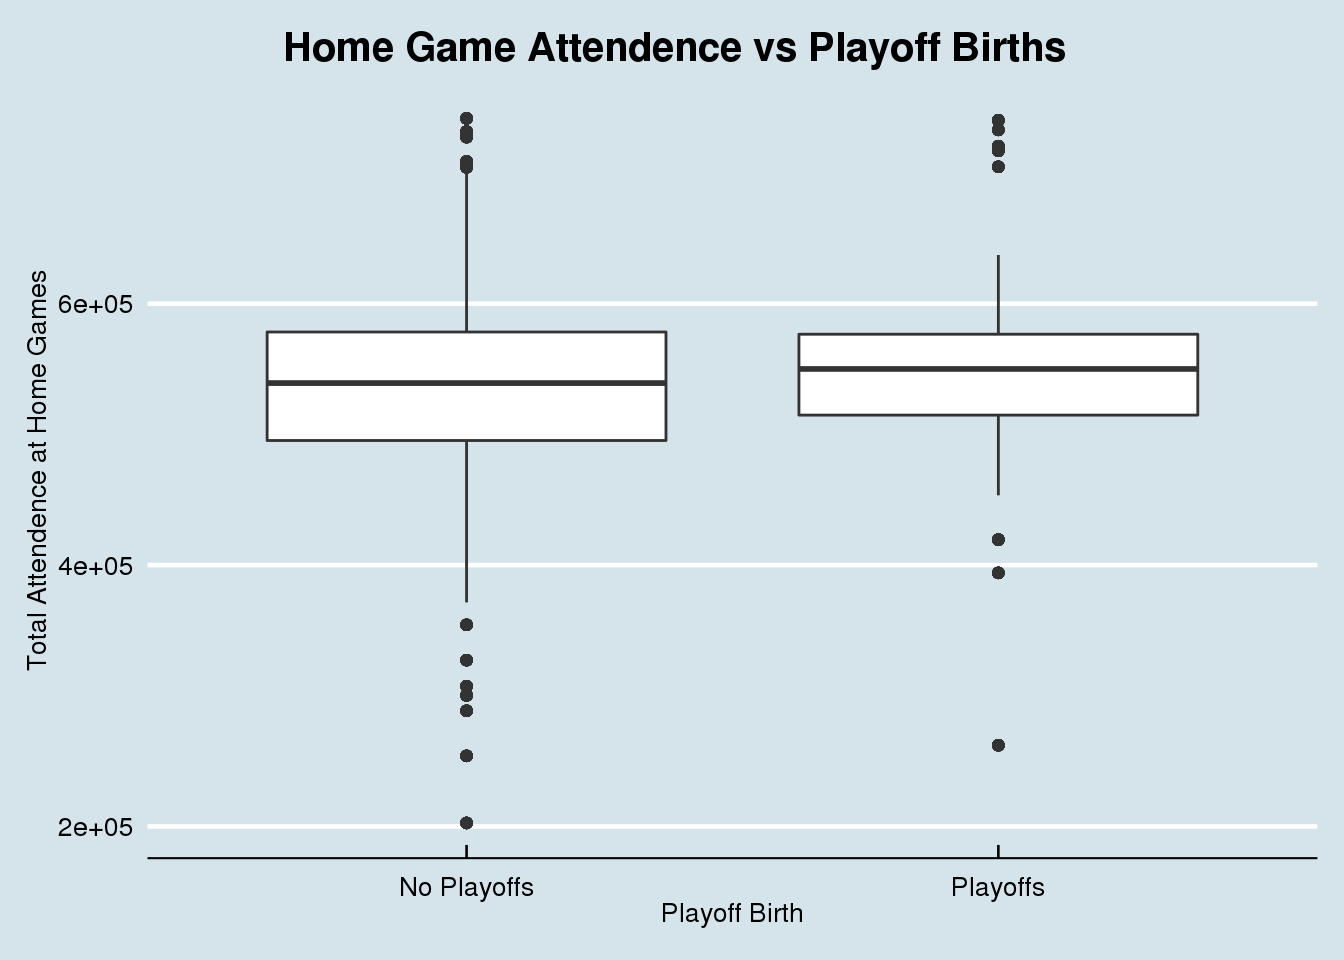
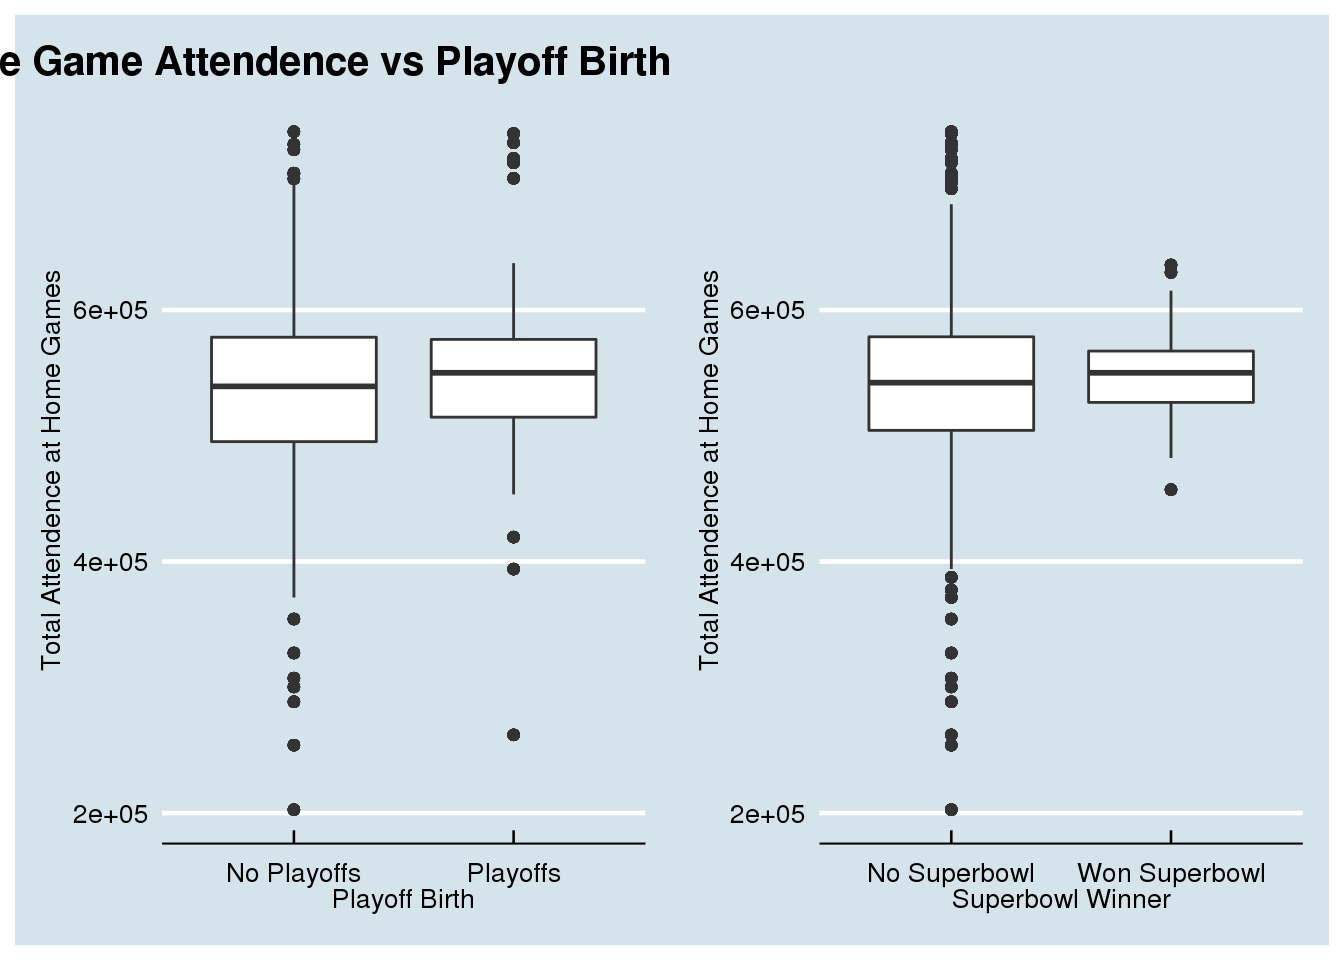
Worked on NFL blog post

diff --git a/public/2020/12/03/a-first-post/index.html b/public/2020/12/03/a-first-post/index.html
@@ -6,8 +6,8 @@
 <meta name="generator" content="Hugo 0.79.0" />
 
 
-<title>NFL Attendence - DASC blog</title>
-<meta property="og:title" content="NFL Attendence - DASC blog">
+<title>NFL Data Analysis - DASC blog</title>
+<meta property="og:title" content="NFL Data Analysis - DASC blog">
 
 
   <link href='/favicon.ico' rel='icon' type='image/x-icon'/>
@@ -66,10 +66,10 @@
 
   <article class="article">
     
-    <span class="article-duration">3 min read</span>
+    <span class="article-duration">5 min read</span>
     
 
-    <h1 class="article-title">NFL Attendence</h1>
+    <h1 class="article-title">NFL Data Analysis</h1>
 
     
     <span class="article-date">2020-12-03</span>
@@ -81,8 +81,33 @@
 <script src="index_files/anchor-sections/anchor-sections.js"></script>
 
 
+<div id="nfl-attendance" class="section level1">
+<h1>NFL Attendance</h1>
+<p>For this project, I will be examining the NFL attendance data from the <code>attendance.csv</code> file on the Tidy
+Tuesday Website. The data consists of 10,846 observations and 8 variables. The dataset shows the the total
+attendance and weekly attendance for every NFL team dating back to the 2000 NFL season.</p>
+<p>Another dataset that I will be using to explore NFL attendence is the <code>standings.csv</code> file from the Tidy
+Tuesday website. The data consists of 638 observations and 15 variables. Some of the variables in this
+dataset show how well each NFL team preformed in each season since 2000, these variables include the
+number of <code>wins</code> and <code>losses</code> as well as whether each team made the <code>playoffs</code> or won the Superbowl in the
+<code>sb_winner</code> variable. This dataset also represents how good each team preformed on offense and defense
+by having <code>points_for</code> and <code>points_against</code> variables as well as <code>offense_ranking</code> and <code>defense_ranking</code>.
+This data will help me see if there is a correlation between team success and attendance.</p>
+<p>Lastly, I will be using the <code>games.csv</code> file from the Tidy Tuesday website. The data consists of 5,324
+observations and 19 variables. The data shows the outcomes of every NFL game dating back to the 2000
+NFL season. The <code>home_team</code> , <code>away_team</code>, and <code>winner</code> variables will be useful to see if there is any sort
+of home field advantage in the NFL. The <code>day</code>, <code>date</code>, and <code>time</code> variables will be useful to see if NFL games
+played on different times and dates have different amounts of attendance.</p>
+</div>
+<div id="question-1" class="section level1">
+<h1>Question 1</h1>
+<p>Do playoff teams have more attendance at their home games than non-playoff teams? If so,
+does the superbowl winner usually lead the league in attendance? To test this, I first joined the attendance
+dataset and the standings dataset to compare the attendance data and whether or not each team
+made the playoffs.</p>
 <pre class="r"><code>dat &lt;- attendance %&gt;%
   left_join(standings, by = c(&quot;team&quot;, &quot;team_name&quot;, &quot;year&quot;))</code></pre>
+<p>Next, I made some graphics to better visualize if there was any correlation between higher home field attendance and team success.</p>
 <pre class="r"><code>ggplot(dat, aes(x = wins, y = home)) +
   geom_point(aes(color = playoffs)) +
   geom_smooth(method = &quot;lm&quot;) +
@@ -91,20 +116,26 @@
   theme_economist() +
   theme(plot.title = element_text(hjust = 0.35))</code></pre>
 <p><img src="index_files/figure-html/unnamed-chunk-2-1.png" width="672" /></p>
-<pre class="r"><code>ggplot(dat, aes(x = playoffs, y = home)) +
+<pre class="r"><code>p1 &lt;- ggplot(dat, aes(x = playoffs, y = home)) +
   geom_boxplot() +
   labs(x = &quot;Playoff Birth&quot;, y = &quot;Total Attendence at Home Games&quot;) +
-  ggtitle(&quot;Home Game Attendence vs Playoff Births&quot;) +
+  ggtitle(&quot;Home Game Attendence vs Playoff Births &amp; Superbowl Winners&quot;) +
   theme_economist() +
-  theme(plot.title = element_text(hjust = 0.35))</code></pre>
-<p><img src="index_files/figure-html/unnamed-chunk-2-2.png" width="672" /></p>
-<pre class="r"><code>ggplot(dat, aes(x = sb_winner, y = home)) +
+  theme(plot.title = element_text(hjust = 0.35))
+
+p2 &lt;- ggplot(dat, aes(x = sb_winner, y = home)) +
   geom_boxplot() +
   labs(x = &quot;Superbowl Winner&quot;, y = &quot;Total Attendence at Home Games&quot;) +
-  ggtitle(&quot;Home Game Attendence vs Superbowl Winners&quot;) +
   theme_economist() +
-  theme(plot.title = element_text(hjust = 0.35))</code></pre>
-<p><img src="index_files/figure-html/unnamed-chunk-2-3.png" width="672" /></p>
+  theme(plot.title = element_text(hjust = 0.35))
+
+p1 + p2</code></pre>
+<p><img src="index_files/figure-html/unnamed-chunk-2-2.png" width="672" />
+There is a clear positive correlation between teams that went to the playoffs and higher attendance at home games. Although there were many teams with high attendance that missed the playoffs and teams with low attendance that did make the playoffs. Also, when looking at Superbowl Winners, there is almost no difference in attendance between teams that did win the Superbowl and those who did not. This leads me to believe that the effect that high attendance has on the success of NFL teams is very small.</p>
+</div>
+<div id="question-2" class="section level1">
+<h1>Question 2</h1>
+<p>When is the optimal time and day for a NFL game to recieve the highest attendance? To find this, I joined the attendance dataset and the games dataset to compare attendances over different times and dates.</p>
 <pre class="r"><code>games &lt;- games %&gt;%
   mutate(week = as.numeric(week))</code></pre>
 <pre><code>## Warning: NAs introduced by coercion</code></pre>
@@ -130,40 +161,50 @@
 ##  9 Mon   20:31          69957 
 ## 10 Mon   20:32          69596 
 ## # … with 126 more rows</code></pre>
+<p>So far this is as far as I have gotten, bc there are way more times than I thought and I am still trying to figure out a way to deal with it.</p>
+</div>
+<div id="question-3" class="section level1">
+<h1>Question 3</h1>
+<p>Do teams with a good offense attract more attendence? If not, good defense, or does it not matter? To test this, I will join the attendance dataset and the standings dataset to be able to compare attendance data with offensive and defensive data for each team.</p>
 <pre class="r"><code>dat &lt;- attendance %&gt;%
   left_join(standings, by = c(&quot;team&quot;, &quot;team_name&quot;, &quot;year&quot;))
   
-ggplot(dat, aes(x = offensive_ranking, y = home)) +
+f1 &lt;- ggplot(dat, aes(x = offensive_ranking, y = home)) +
   geom_point() +
   geom_smooth(method = &quot;lm&quot;) +
   labs(x = &quot;Offensive Ranking&quot;, y = &quot;Total Attendance at Home Games&quot;) +
   ggtitle(&quot;Home Game Attendance vs Offensive Ranking&quot;) +
-  theme_economist()</code></pre>
-<p><img src="index_files/figure-html/unnamed-chunk-4-1.png" width="672" /></p>
-<pre class="r"><code>ggplot(dat, aes(x = points_for, y = home)) +
+  theme_economist()
+
+f2 &lt;- ggplot(dat, aes(x = points_for, y = home)) +
   geom_point() +
   geom_smooth(method = &quot;lm&quot;) +
   labs(x = &quot;Points Scored in a Season&quot;, y = &quot;Total Attendance at Home Games&quot;) +
   ggtitle(&quot;Home Game Attendance vs Points Scored&quot;) +
   theme_economist() +
-  theme(plot.title = element_text(hjust = 0.35))</code></pre>
-<p><img src="index_files/figure-html/unnamed-chunk-4-2.png" width="672" /></p>
-<pre class="r"><code>ggplot(dat, aes(x = defensive_ranking, y = home)) +
+  theme(plot.title = element_text(hjust = 0.35))
+
+f1 / f2</code></pre>
+<p><img src="index_files/figure-html/unnamed-chunk-4-1.png" width="672" /></p>
+<pre class="r"><code>f3 &lt;- ggplot(dat, aes(x = defensive_ranking, y = home)) +
   geom_point() +
   geom_smooth(method = &quot;lm&quot;) +
   labs(x = &quot;Defensive Ranking&quot;, y = &quot;Total Attendance at Home Games&quot;) +
   ggtitle(&quot;Home Game Attendance vs Defensive Ranking&quot;) +
   theme_economist() +
-  theme(plot.title = element_text(hjust = 0.35))</code></pre>
-<p><img src="index_files/figure-html/unnamed-chunk-4-3.png" width="672" /></p>
-<pre class="r"><code>ggplot(dat, aes(x = points_against, y = home)) +
+  theme(plot.title = element_text(hjust = 0.35))
+
+f4 &lt;- ggplot(dat, aes(x = points_against, y = home)) +
   geom_point() +
   geom_smooth(method = &quot;lm&quot;) +
   labs(x = &quot;Points Given Up in a Season&quot;, y = &quot;Total Attendance at Home Games&quot;) +
   ggtitle(&quot;Home Game Attendance vs Points Given Up&quot;) +
   theme_economist() +
-  theme(plot.title = element_text(hjust = 0.35))</code></pre>
-<p><img src="index_files/figure-html/unnamed-chunk-4-4.png" width="672" /></p>
+  theme(plot.title = element_text(hjust = 0.35))
+
+f3 / f4</code></pre>
+<p><img src="index_files/figure-html/unnamed-chunk-4-2.png" width="672" /></p>
+</div>
 
     </div>
   </article>

diff --git a/content/post/2020-12-03-a-first-post/index.html b/content/post/2020-12-03-a-first-post/index.html
@@ -1,5 +1,5 @@
 ---
-title: NFL Attendence
+title: NFL Data Analysis
 author: ~
 date: '2020-12-03'
 slug: a-first-post
@@ -11,8 +11,33 @@ tags: []
 <script src="index_files/anchor-sections/anchor-sections.js"></script>
 
 
+<div id="nfl-attendance" class="section level1">
+<h1>NFL Attendance</h1>
+<p>For this project, I will be examining the NFL attendance data from the <code>attendance.csv</code> file on the Tidy
+Tuesday Website. The data consists of 10,846 observations and 8 variables. The dataset shows the the total
+attendance and weekly attendance for every NFL team dating back to the 2000 NFL season.</p>
+<p>Another dataset that I will be using to explore NFL attendence is the <code>standings.csv</code> file from the Tidy
+Tuesday website. The data consists of 638 observations and 15 variables. Some of the variables in this
+dataset show how well each NFL team preformed in each season since 2000, these variables include the
+number of <code>wins</code> and <code>losses</code> as well as whether each team made the <code>playoffs</code> or won the Superbowl in the
+<code>sb_winner</code> variable. This dataset also represents how good each team preformed on offense and defense
+by having <code>points_for</code> and <code>points_against</code> variables as well as <code>offense_ranking</code> and <code>defense_ranking</code>.
+This data will help me see if there is a correlation between team success and attendance.</p>
+<p>Lastly, I will be using the <code>games.csv</code> file from the Tidy Tuesday website. The data consists of 5,324
+observations and 19 variables. The data shows the outcomes of every NFL game dating back to the 2000
+NFL season. The <code>home_team</code> , <code>away_team</code>, and <code>winner</code> variables will be useful to see if there is any sort
+of home field advantage in the NFL. The <code>day</code>, <code>date</code>, and <code>time</code> variables will be useful to see if NFL games
+played on different times and dates have different amounts of attendance.</p>
+</div>
+<div id="question-1" class="section level1">
+<h1>Question 1</h1>
+<p>Do playoff teams have more attendance at their home games than non-playoff teams? If so,
+does the superbowl winner usually lead the league in attendance? To test this, I first joined the attendance
+dataset and the standings dataset to compare the attendance data and whether or not each team
+made the playoffs.</p>
 <pre class="r"><code>dat &lt;- attendance %&gt;%
   left_join(standings, by = c(&quot;team&quot;, &quot;team_name&quot;, &quot;year&quot;))</code></pre>
+<p>Next, I made some graphics to better visualize if there was any correlation between higher home field attendance and team success.</p>
 <pre class="r"><code>ggplot(dat, aes(x = wins, y = home)) +
   geom_point(aes(color = playoffs)) +
   geom_smooth(method = &quot;lm&quot;) +
@@ -21,20 +46,26 @@ tags: []
   theme_economist() +
   theme(plot.title = element_text(hjust = 0.35))</code></pre>
 <p><img src="index_files/figure-html/unnamed-chunk-2-1.png" width="672" /></p>
-<pre class="r"><code>ggplot(dat, aes(x = playoffs, y = home)) +
+<pre class="r"><code>p1 &lt;- ggplot(dat, aes(x = playoffs, y = home)) +
   geom_boxplot() +
   labs(x = &quot;Playoff Birth&quot;, y = &quot;Total Attendence at Home Games&quot;) +
-  ggtitle(&quot;Home Game Attendence vs Playoff Births&quot;) +
+  ggtitle(&quot;Home Game Attendence vs Playoff Births &amp; Superbowl Winners&quot;) +
   theme_economist() +
-  theme(plot.title = element_text(hjust = 0.35))</code></pre>
-<p><img src="index_files/figure-html/unnamed-chunk-2-2.png" width="672" /></p>
-<pre class="r"><code>ggplot(dat, aes(x = sb_winner, y = home)) +
+  theme(plot.title = element_text(hjust = 0.35))
+
+p2 &lt;- ggplot(dat, aes(x = sb_winner, y = home)) +
   geom_boxplot() +
   labs(x = &quot;Superbowl Winner&quot;, y = &quot;Total Attendence at Home Games&quot;) +
-  ggtitle(&quot;Home Game Attendence vs Superbowl Winners&quot;) +
   theme_economist() +
-  theme(plot.title = element_text(hjust = 0.35))</code></pre>
-<p><img src="index_files/figure-html/unnamed-chunk-2-3.png" width="672" /></p>
+  theme(plot.title = element_text(hjust = 0.35))
+
+p1 + p2</code></pre>
+<p><img src="index_files/figure-html/unnamed-chunk-2-2.png" width="672" />
+There is a clear positive correlation between teams that went to the playoffs and higher attendance at home games. Although there were many teams with high attendance that missed the playoffs and teams with low attendance that did make the playoffs. Also, when looking at Superbowl Winners, there is almost no difference in attendance between teams that did win the Superbowl and those who did not. This leads me to believe that the effect that high attendance has on the success of NFL teams is very small.</p>
+</div>
+<div id="question-2" class="section level1">
+<h1>Question 2</h1>
+<p>When is the optimal time and day for a NFL game to recieve the highest attendance? To find this, I joined the attendance dataset and the games dataset to compare attendances over different times and dates.</p>
 <pre class="r"><code>games &lt;- games %&gt;%
   mutate(week = as.numeric(week))</code></pre>
 <pre><code>## Warning: NAs introduced by coercion</code></pre>
@@ -60,37 +91,47 @@ tags: []
 ##  9 Mon   20:31          69957 
 ## 10 Mon   20:32          69596 
 ## # … with 126 more rows</code></pre>
+<p>So far this is as far as I have gotten, bc there are way more times than I thought and I am still trying to figure out a way to deal with it.</p>
+</div>
+<div id="question-3" class="section level1">
+<h1>Question 3</h1>
+<p>Do teams with a good offense attract more attendence? If not, good defense, or does it not matter? To test this, I will join the attendance dataset and the standings dataset to be able to compare attendance data with offensive and defensive data for each team.</p>
 <pre class="r"><code>dat &lt;- attendance %&gt;%
   left_join(standings, by = c(&quot;team&quot;, &quot;team_name&quot;, &quot;year&quot;))
   
-ggplot(dat, aes(x = offensive_ranking, y = home)) +
+f1 &lt;- ggplot(dat, aes(x = offensive_ranking, y = home)) +
   geom_point() +
   geom_smooth(method = &quot;lm&quot;) +
   labs(x = &quot;Offensive Ranking&quot;, y = &quot;Total Attendance at Home Games&quot;) +
   ggtitle(&quot;Home Game Attendance vs Offensive Ranking&quot;) +
-  theme_economist()</code></pre>
-<p><img src="index_files/figure-html/unnamed-chunk-4-1.png" width="672" /></p>
-<pre class="r"><code>ggplot(dat, aes(x = points_for, y = home)) +
+  theme_economist()
+
+f2 &lt;- ggplot(dat, aes(x = points_for, y = home)) +
   geom_point() +
   geom_smooth(method = &quot;lm&quot;) +
   labs(x = &quot;Points Scored in a Season&quot;, y = &quot;Total Attendance at Home Games&quot;) +
   ggtitle(&quot;Home Game Attendance vs Points Scored&quot;) +
   theme_economist() +
-  theme(plot.title = element_text(hjust = 0.35))</code></pre>
-<p><img src="index_files/figure-html/unnamed-chunk-4-2.png" width="672" /></p>
-<pre class="r"><code>ggplot(dat, aes(x = defensive_ranking, y = home)) +
+  theme(plot.title = element_text(hjust = 0.35))
+
+f1 / f2</code></pre>
+<p><img src="index_files/figure-html/unnamed-chunk-4-1.png" width="672" /></p>
+<pre class="r"><code>f3 &lt;- ggplot(dat, aes(x = defensive_ranking, y = home)) +
   geom_point() +
   geom_smooth(method = &quot;lm&quot;) +
   labs(x = &quot;Defensive Ranking&quot;, y = &quot;Total Attendance at Home Games&quot;) +
   ggtitle(&quot;Home Game Attendance vs Defensive Ranking&quot;) +
   theme_economist() +
-  theme(plot.title = element_text(hjust = 0.35))</code></pre>
-<p><img src="index_files/figure-html/unnamed-chunk-4-3.png" width="672" /></p>
-<pre class="r"><code>ggplot(dat, aes(x = points_against, y = home)) +
+  theme(plot.title = element_text(hjust = 0.35))
+
+f4 &lt;- ggplot(dat, aes(x = points_against, y = home)) +
   geom_point() +
   geom_smooth(method = &quot;lm&quot;) +
   labs(x = &quot;Points Given Up in a Season&quot;, y = &quot;Total Attendance at Home Games&quot;) +
   ggtitle(&quot;Home Game Attendance vs Points Given Up&quot;) +
   theme_economist() +
-  theme(plot.title = element_text(hjust = 0.35))</code></pre>
-<p><img src="index_files/figure-html/unnamed-chunk-4-4.png" width="672" /></p>
+  theme(plot.title = element_text(hjust = 0.35))
+
+f3 / f4</code></pre>
+<p><img src="index_files/figure-html/unnamed-chunk-4-2.png" width="672" /></p>
+</div>

diff --git a/public/index.html b/public/index.html
@@ -79,7 +79,7 @@
     </article>
     
     <article class="archive-item">
-      <a href="/2020/12/03/a-first-post/" class="archive-item-link">NFL Attendence</a>
+      <a href="/2020/12/03/a-first-post/" class="archive-item-link">NFL Data Analysis</a>
       <span class="archive-item-date">
         2020-12-03
       </span>

diff --git a/public/post/index.html b/public/post/index.html
@@ -76,7 +76,7 @@
     </article>
     
     <article class="archive-item">
-      <a href="/2020/12/03/a-first-post/" class="archive-item-link">NFL Attendence</a>
+      <a href="/2020/12/03/a-first-post/" class="archive-item-link">NFL Data Analysis</a>
       <span class="archive-item-date">
         2020-12-03
       </span>
